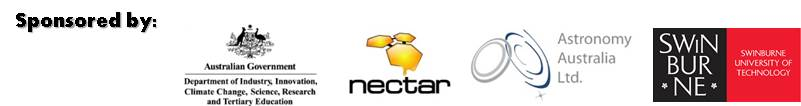
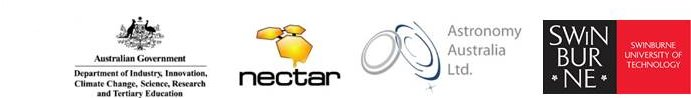
modify homepage interface

diff --git a/web/tao/static/css/tao_home.css b/web/tao/static/css/tao_home.css
@@ -10,7 +10,7 @@ html, body {
 
 
 
-#body { padding-top: 120px; padding-bottom: 130px; }
+#body { padding-top: 120px; padding-bottom: 10px; }
 
 hr {
 	border-color: grey;
@@ -236,7 +236,7 @@ legend {
   min-height: 100%;
   height: auto;
   /* Negative indent2 footer by its height */
-  margin: 0 auto -130px;
+  margin: 0 auto -10px;
 }
 
 #tabs.ui-tabs .ui-tabs-nav li a {
@@ -653,8 +653,8 @@ border-left:thick solid #d0d0d0;
 
 #footer {
     position: relative;
-    height: 130px;
-    margin-top: -130px;
+    height: 10px;
+    margin-top: -10px;
     clear:both;
     /*border-top:2px solid grey;*/
     
@@ -921,3 +921,18 @@ ul.messagelist { position: fixed; top: 48px; left: 0; right: 0; }
     border:0;
     -ms-interpolation-mode:bicubic
 }
+
+.hr_logos
+{
+ -moz-border-bottom-colors: none;
+  -moz-border-image: none;
+  -moz-border-left-colors: none;
+  -moz-border-right-colors: none;
+  -moz-border-top-colors: none;
+  border-color: #ff6700;
+   -moz-use-text-color #ff6700;
+  border-style: solid none;
+  border-width: 3px 0;
+  margin: 0px 0;
+  width: 100%;
+ }

diff --git a/web/tao/templates/home.html b/web/tao/templates/home.html
@@ -31,13 +31,32 @@
 		</div>
 	
 	</div>
+	<div class="push"><!--//--></div>
+	<div class="push"><!--//--></div>
+	<div align="center">
+<div class="well well-sm">
+<div class="row-fluid">
+
+<div class="span2" align="center">
+<img src="{% static 'images/nectar-logo.png' %}" />
+</div>
+<div class="span10" align="left">
+<small>
+The Theoretical Astrophysical Observatory acknowledges funding from the NeCTAR project (<a href="http://www.nectar.org.au" target="_blank" >www.nectar.org.au</a>).
+
+NeCTAR is an Australian Government project conducted as part of the Super Science initiative and financed by the Education Investment Fund.
+</small>
+</div>
+
+
+</div>	
+</div> 
+</div>
 {% endblock %}
 {% block footertxt %}	
 	
 	
-<div align="center">
- <img src="{% static 'images/sponsers.jpg'%}"/>
-</div>
+
        
 {% endblock %}
 

diff --git a/web/tao/templates/about.html b/web/tao/templates/about.html
@@ -31,8 +31,9 @@
         TAO is part of the <a href="www.asvo.org.au" target="_blank">All-Sky Virtual Observatory (ASVO)</a> and is funded and supported by <a href="http://astronomyaustralia.org.au/">Astronomy Australia Limited</a>, <a href="http://www.swinburne.edu.au/">Swinburne University of Technology</a> and the <a href="http://www.innovation.gov.au/Pages/default.aspx">Australian Government</a>. 
         The latter is provided though the Commonwealth's Education Investment Fund and National Collaborative Research Infrastructure Strategy, particularly <a href="http://www.nectar.org.au">the National eResearch Collaboration Tools and Resources (NeCTAR)</a> Project. 
     </p>
-    
-    
+    <div align="center">
+    <img src="{% static 'images/sponsers.jpg'%}"/>
+    </div>
 
     
 

diff --git a/web/tao/templates/_base_home.html b/web/tao/templates/_base_home.html
@@ -97,17 +97,14 @@
   </div>
   </div>
   <div id="footer">
+
       <div class="container">
       <div>
         {% block footertxt %}            
         {% endblock footertxt %}
       </div>
       </div>
-      <div >
-        <p style="font-size: 0.75em;">
-        TAO Version ({% setting 'TAO_VERSION' %})
-        </p>
-      </div>
+      
       
   </div>
   
